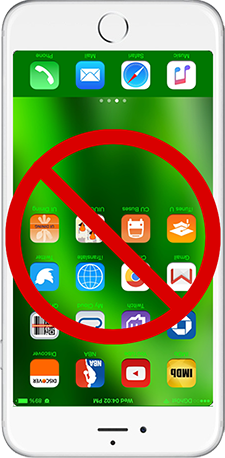
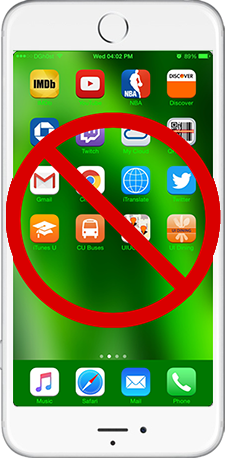
Updated projects page to include more tweaks that I developed and fixed the noupsidedown image

diff --git a/js/projects.js b/js/projects.js
@@ -1,18 +1,21 @@
 document.onload = function(){init()};
 
-var iosprojects = ['<div class = "tweak"><h3>WhiteListSwitcherClose</h3><img src="img/WhitelistSwitcher.gif"><br><a href="https://www.github.com/DGh0st/WhiteListSwitcherClose">GitHub</a><h5>Whitelist applications to become irremovable from the switcher and also blacklist applications to be restartable instead of closed.</h5><h5>Repo: <a href="http://moreinfo.thebigboss.org/moreinfo/depiction.php?file=whitelistswitchercloseDp">BigBoss</a></h5></div>',
-		    '<div class = "tweak"><h3>AlertClose</h3><img src="img/AlertClose.png"><br><a href="https://www.github.com/DGh0st/AlertClose">GitHub</a><h5>Display an alert stylesheet while closing applications.</h5><h5>Repo: <a href="http://moreinfo.thebigboss.org/moreinfo/depiction.php?file=alertcloseDp">BigBoss</a></h5></div>',
-            '<div class = "tweak"><h3>AppSwitcherCurrentOrig</h3><img src="img/AppSwitchCurent.gif"><br><a href="https://www.github.com/DGh0st/AppSwitchCurrentOrig">GitHub</a><h5>Open App Switcher to current instead of last app. Official version called AppSwitchCurrent.</h5><h5>Repo: <a href="http://moreinfo.thebigboss.org/moreinfo/depiction.php?file=appswitchcurrentDp">BigBoss</a>, <a href="cydia://url/https://cydia.saurik.com/api/share#?source=https://DGh0st.github.io/">DGh0st Beta Repo</a></h5></div>',
-            '<div class = "tweak"><h3>DarkAuxo</h3><img src="img/DarkAuxo.png"><br><a href="https://www.github.com/DGh0st/DarkAuxo">GitHub</a><h5>Makes Auxo LE dark, works with regular Control Center.</h5><h5>Repo: <a href="cydia://url/https://cydia.saurik.com/api/share#?source=https://DGh0st.github.io/">DGh0st Beta Repo</a></h5></div>',
-            '<div class = "tweak"><h3>DefaultPage</h3><img src="img/DefaultPage.gif"><br><a href="https://www.github.com/DGh0st/DefaultPage">GitHub</a><h5>Set a custom default home screen page.</h5><h5>Repo: <a href="cydia://url/https://cydia.saurik.com/api/share#?source=https://DGh0st.github.io/">DGh0st Beta Repo</a></h5></div>',
-            '<div class = "tweak"><h3>DelayVolChange</h3><img src="img/DelayVolChange.png"><br><a href="https://www.github.com/DGh0st/DelayVolChange">GitHub</a><h5>Prevents the first volume press to actually effect the volume.</h5><h5>Repo: <a href="http://moreinfo.thebigboss.org/moreinfo/depiction.php?file=delayvolchangeDp">BigBoss</a></h5></div>',
-            '<div class = "tweak"><h3>NCClearText</h3><img src="img/NCClearText.png"><br><a href="https://www.github.com/DGh0st/NCClearText">GitHub</a><h5>Set a custom text for the Notification Center Clear text.</h5><h5>Repo: <a href="cydia://url/https://cydia.saurik.com/api/share#?source=https://DGh0st.github.io/">DGh0st Beta Repo</a></h5></div>',
-            '<div class = "tweak"><h3>NoLSNotificationBlur</h3><img src="img/NoLSNotificationBlur.png"><br><a href="https://www.github.com/DGh0st/NoLSNotificationBlur">GitHub</a><h5>Remove the blur displayed on the lockscren when a notification is received.</h5><h5>Repo: <a href="cydia://url/https://cydia.saurik.com/api/share#?source=https://DGh0st.github.io/">DGh0st Beta Repo</a></h5></div>',
-            '<div class = "tweak"><h3>NoLSNotificationSeparators</h3><img src="img/NoLSNotificationSeparators.png"><br><a href="https://www.github.com/DGh0st/NoLSNotificationSeparators">GitHub</a><h5>Removes the lockscreen notification separators.</h5><h5>Repo: <a href="cydia://url/https://cydia.saurik.com/api/share#?source=https://DGh0st.github.io/">DGh0st Beta Repo</a></h5></div>',
-            '<div class = "tweak"><h3>NoUpsideDown</h3><img src="img/NoUpsideDown.png"><br><a href="https://www.github.com/DGh0st/NoUpsideDown">GitHub</a><h5>Disable UpsideDown Orientation throughout IOS.</h5><h5>Repo: <a href="http://moreinfo.thebigboss.org/moreinfo/depiction.php?file=noupsidedownDp">BigBoss</a></h5></div>',
-            '<div class = "tweak"><h3>ReachOffset</h3><img src="img/ReachOffset.png"><br><a href="https://www.github.com/DGh0st/ReachOffset">GitHub</a><h5>Set a custom reachability height/offset.</h5><h5>Repo: <a href="http://moreinfo.thebigboss.org/moreinfo/depiction.php?file=reachoffsetDp">BigBoss</a></h5></div>',
-            '<div class = "tweak"><h3>ShiftTopSwitcher</h3><img src="img/ShiftTopSwitcher.png"><br><a href="https://www.github.com/DGh0st/ShiftTopSwitcher">GitHub</a><h5>Shift the top application in the switcher.</h5><h5>Repo: <a href="cydia://url/https://cydia.saurik.com/api/share#?source=https://DGh0st.github.io/">DGh0st Beta Repo</a></h5></div>',
-            '<div class = "tweak"><h3>UndoRotation</h3><img src="img/UndoRotation.png"><br><a href="https://www.github.com/DGh0st/UndoRotation">GitHub</a><h5>Undo last rotation by taping the button and and ability to lock orientation.</h5><h5>Repo: <a href="http://moreinfo.thebigboss.org/moreinfo/depiction.php?file=undorotationDp">BigBoss</a></h5></div>'];
+var iosprojects = ['<div class = "tweak"><h3>WhiteListSwitcherClose</h3><img src="img/WhitelistSwitcher.gif"><br><a href="https://www.github.com/DGh0st/WhiteListSwitcherClose">GitHub</a><h5>Whitelist applications to become irremovable from the switcher and also blacklist applications to be restartable instead of closed.</h5><h5>Repo: <a href="http://moreinfo.thebigboss.org/moreinfo/depiction.php?file=whitelistswitchercloseDp">BigBoss</a>, <a href="https://dgh0st.github.io/Files/?p=com.dgh0st.whitelistswitcher">DGh0st Beta Repo</a></h5></div>',
+		    '<div class = "tweak"><h3>AlertClose</h3><img src="img/AlertClose.png"><br><a href="https://www.github.com/DGh0st/AlertClose">GitHub</a><h5>Display an alert stylesheet while closing applications.</h5><h5>Repo: <a href="http://moreinfo.thebigboss.org/moreinfo/depiction.php?file=alertcloseDp">BigBoss</a>, <a href="https://dgh0st.github.io/Files/?p=com.dgh0st.alertclose">DGh0st Beta Repo</a></h5></div>',
+            '<div class = "tweak"><h3>AppSwitcherCurrentOrig</h3><img src="img/AppSwitchCurent.gif"><br><a href="https://www.github.com/DGh0st/AppSwitchCurrentOrig">GitHub</a><h5>Open App Switcher to current instead of last app. Official version called AppSwitchCurrent.</h5><h5>Repo: <a href="http://moreinfo.thebigboss.org/moreinfo/depiction.php?file=appswitchcurrentDp">BigBoss</a>, <a href="https://dgh0st.github.io/Files/?p=com.dgh0st.appswitchcurrentOrig">DGh0st Beta Repo</a></h5></div>',
+            '<div class = "tweak"><h3>DarkAuxo</h3><img src="img/DarkAuxo.png"><br><a href="https://www.github.com/DGh0st/DarkAuxo">GitHub</a><h5>Makes Auxo LE dark, works with regular Control Center.</h5><h5>Repo: <a href="https://dgh0st.github.io/Files/?p=com.dgh0st.darkauxo">DGh0st Beta Repo</a></h5></div>',
+            '<div class = "tweak"><h3>DefaultPage</h3><img src="img/DefaultPage.gif"><br><a href="https://www.github.com/DGh0st/DefaultPage">GitHub</a><h5>Set a custom default home screen page.</h5><h5>Repo: <a href="https://dgh0st.github.io/Files/?p=com.dgh0st.defaultpage">DGh0st Beta Repo</a></h5></div>',
+            '<div class = "tweak"><h3>DelayVolChange</h3><img src="img/DelayVolChange.png"><br><a href="https://www.github.com/DGh0st/DelayVolChange">GitHub</a><h5>Prevents the first volume press to actually effect the volume.</h5><h5>Repo: <a href="http://moreinfo.thebigboss.org/moreinfo/depiction.php?file=delayvolchangeDp">BigBoss</a>, <a href="https://dgh0st.github.io/Files/?p=com.dgh0st.delayvolchange">DGh0st Beta Repo</a></h5></div>',
+            '<div class = "tweak"><h3>DVirtualHome</h3><img src="img/DVirtualHome.png"><br><a href="https://www.github.com/DGh0st/DVirtualHome">GitHub</a><h5>My attempt at making virtual home iOS 10 compatible.</h5><h5>Repo: <a href="https://dgh0st.github.io/Files/?p=com.dgh0st.dvirtualhome">DGh0st Beta Repo</a></h5></div>',
+            '<div class = "tweak"><h3>NCClearText</h3><img src="img/NCClearText.png"><br><a href="https://www.github.com/DGh0st/NCClearText">GitHub</a><h5>Set a custom text for the Notification Center Clear text.</h5><h5>Repo: <a href="https://dgh0st.github.io/Files/?p=com.dgh0st.nccleartext">DGh0st Beta Repo</a></h5></div>',
+            '<div class = "tweak"><h3>NoHomeTapOnHS</h3><img src="img/NoHomeTapOnHS.png"><br><a href="https://www.github.com/DGh0st/NoHomeTapOnHS">GitHub</a><h5>Disable the home button tap/press on homescreen.</h5><h5>Repo: <a href="https://dgh0st.github.io/Files/?p=com.dgh0st.nohometaponhs">DGh0st Beta Repo</a></h5></div>',
+            '<div class = "tweak"><h3>NoLSNotificationBlur</h3><img src="img/NoLSNotificationBlur.png"><br><a href="https://www.github.com/DGh0st/NoLSNotificationBlur">GitHub</a><h5>Remove the blur displayed on the lockscren when a notification is received.</h5><h5>Repo: <a href="https://dgh0st.github.io/Files/?p=com.dgh0st.nolsnotificationblur">DGh0st Beta Repo</a></h5></div>',
+            '<div class = "tweak"><h3>NoLSNotificationSeparators</h3><img src="img/NoLSNotificationSeparators.png"><br><a href="https://www.github.com/DGh0st/NoLSNotificationSeparators">GitHub</a><h5>Removes the lockscreen notification separators.</h5><h5>Repo: <a href="https://dgh0st.github.io/Files/?p=com.dgh0st.nolsnotificationseparators">DGh0st Beta Repo</a></h5></div>',
+            '<div class = "tweak"><h3>NoUpsideDown</h3><img src="img/NoUpsideDown.png"><br><a href="https://www.github.com/DGh0st/NoUpsideDown">GitHub</a><h5>Disable UpsideDown Orientation throughout IOS.</h5><h5>Repo: <a href="http://moreinfo.thebigboss.org/moreinfo/depiction.php?file=noupsidedownDp">BigBoss</a>, <a href="https://dgh0st.github.io/Files/?p=com.dgh0st.noupsidedown">DGh0st Beta Repo</a></h5></div>',
+            '<div class = "tweak"><h3>ProductivityReminder</h3><img src="img/ProductivityReminder.png"><br><a href="https://www.github.com/DGh0st/ProductivityReminder">GitHub</a><h5>Display an alert x minutes after application open to be reminded to get back to work.</h5><h5>Repo: <a href="https://dgh0st.github.io/Files/?p=com.dgh0st.productivityreminder">DGh0st Beta Repo</a></h5></div>',
+            '<div class = "tweak"><h3>ReachOffset</h3><img src="img/ReachOffset.png"><br><a href="https://www.github.com/DGh0st/ReachOffset">GitHub</a><h5>Set a custom reachability height/offset.</h5><h5>Repo: <a href="http://moreinfo.thebigboss.org/moreinfo/depiction.php?file=reachoffsetDp">BigBoss</a>, <a href="https://dgh0st.github.io/Files/?p=com.dgh0st.reachoffset">DGh0st Beta Repo</a></h5></div>',
+            '<div class = "tweak"><h3>ShiftTopSwitcher</h3><img src="img/ShiftTopSwitcher.png"><br><a href="https://www.github.com/DGh0st/ShiftTopSwitcher">GitHub</a><h5>Shift the top application in the switcher.</h5><h5>Repo: <a href="https://dgh0st.github.io/Files/?p=com.dgh0st.shifttopswitcher">DGh0st Beta Repo</a></h5></div>',
+            '<div class = "tweak"><h3>UndoRotation</h3><img src="img/UndoRotation.png"><br><a href="https://www.github.com/DGh0st/UndoRotation">GitHub</a><h5>Undo last rotation by taping the button and and ability to lock orientation.</h5><h5>Repo: <a href="http://moreinfo.thebigboss.org/moreinfo/depiction.php?file=undorotationDp">BigBoss</a>, <a href="https://dgh0st.github.io/Files/?p=com.dgh0st.undorotation">DGh0st Beta Repo</a></h5></div>'];
 
 var shouldAutoSlide = true;
 var i = 1;

diff --git a/projects.html b/projects.html
@@ -56,7 +56,7 @@
                         <br>
                         <a href="https://www.github.com/DGh0st/AlertClose">GitHub</a>
                         <h5>Display an alert stylesheet while closing applications.</h5>
-                        <h5>Repo: <a href="http://moreinfo.thebigboss.org/moreinfo/depiction.php?file=alertcloseDp">BigBoss</a></h5>
+                        <h5>Repo: <a href="http://moreinfo.thebigboss.org/moreinfo/depiction.php?file=alertcloseDp">BigBoss</a>, <a href="https://dgh0st.github.io/Files/?p=com.dgh0st.alertclose">DGh0st Beta Repo</a></h5>
                     </div>
                     <div class = "tweak">
                         <h3>AppSwitcherCurrentOrig</h3>
@@ -64,7 +64,7 @@
                         <br>
                         <a href="https://www.github.com/DGh0st/AppSwitchCurrentOrig">GitHub</a>
                         <h5>Open App Switcher to current instead of last app. Official version called AppSwitchCurrent.</h5>
-                        <h5>Repo: <a href="http://moreinfo.thebigboss.org/moreinfo/depiction.php?file=appswitchcurrentDp">BigBoss</a>, <a href="cydia://url/https://cydia.saurik.com/api/share#?source=https://DGh0st.github.io/">DGh0st Beta Repo</a></h5>
+                        <h5>Repo: <a href="http://moreinfo.thebigboss.org/moreinfo/depiction.php?file=appswitchcurrentDp">BigBoss</a>, <a href="https://dgh0st.github.io/Files/?p=com.dgh0st.appswitchcurrentOrig">DGh0st Beta Repo</a></h5>
                     </div>
                     <div class = "tweak">
                         <h3>DarkAuxo</h3>
@@ -72,7 +72,7 @@
                         <br>
                         <a href="https://www.github.com/DGh0st/DarkAuxo">GitHub</a>
                         <h5>Makes Auxo LE dark, works with regular Control Center.</h5>
-                        <h5>Repo: <a href="cydia://url/https://cydia.saurik.com/api/share#?source=https://DGh0st.github.io/">DGh0st Beta Repo</a></h5>
+                        <h5>Repo: <a href="https://dgh0st.github.io/Files/?p=com.dgh0st.darkauxo">DGh0st Beta Repo</a></h5>
                     </div>
                     <div class = "tweak">
                         <h3>DefaultPage</h3>
@@ -80,7 +80,7 @@
                         <br>
                         <a href="https://www.github.com/DGh0st/DefaultPage">GitHub</a>
                         <h5>Set a custom default home screen page.</h5>
-                        <h5>Repo: <a href="cydia://url/https://cydia.saurik.com/api/share#?source=https://DGh0st.github.io/">DGh0st Beta Repo</a></h5>
+                        <h5>Repo: <a href="https://dgh0st.github.io/Files/?p=com.dgh0st.defaultpage">DGh0st Beta Repo</a></h5>
                     </div>
                 </div>
                 <img class = "arrows" onclick="next()" src="img/navRight.png" style = "animation: fadeSlideButton 1s 1;">
